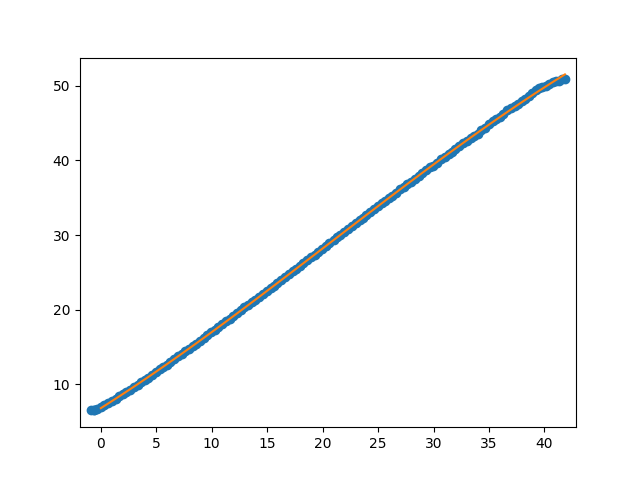
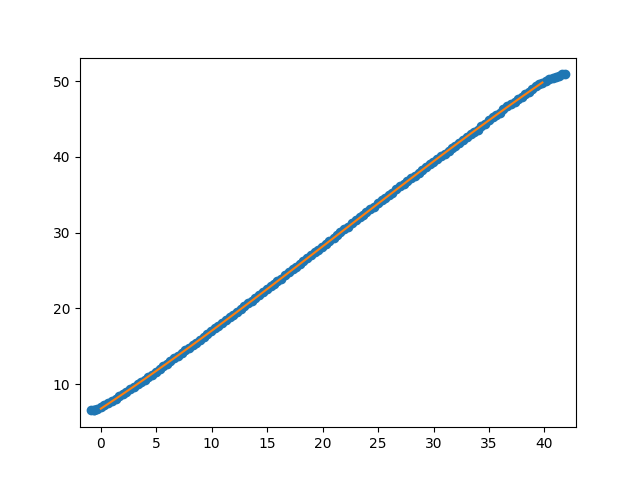
tweak

diff --git a/derailleurs/Shimano Deore M5120/default.htm b/derailleurs/Shimano Deore M5120/default.htm
@@ -21,23 +21,23 @@ Shimano Deore 11-Speed
   </tr>
   <tr>
     <th>Pull Ratio</th>
-    <td>1.10</td>
+    <td>1.11</td>
   </tr>
   <tr>
     <th>Curve Coefficients</th>
-    <td>6.43, 0.957, 0.00806, -0.000128</td>
+    <td>6.38, 0.958, 0.00763, -0.000114</td>
   </tr>
   <tr>
     <th>Physical Low Limit</th>
-    <td>6.43</td>
+    <td>6.38</td>
   </tr>
   <tr>
     <th>Physical High Limit</th>
-    <td>51.33</td>
+    <td>52.04</td>
   </tr>
   <tr>
     <th>Pull Ratio Averaged Across Pulling Runs</th>
-    <td>1.109 +/- 0.000</td>
+    <td>1.113 +/- 0.007</td>
   </tr>
   <tr>
     <th>Pull Ratio Averaged Across Relaxing Runs</th>
@@ -45,11 +45,11 @@ Shimano Deore 11-Speed
   </tr>
   <tr>
     <th>Pull Ratio Averaged Across All Runs</th>
-    <td>1.103 +/- 0.011</td>
+    <td>1.108 +/- 0.015</td>
   </tr>
   <tr>
     <th>Pull Ratio 95% Confidence Interval</th>
-    <td>1.093 to 1.114</td>
+    <td>1.093 to 1.123</td>
   </tr>
   
   
@@ -82,6 +82,16 @@ Shimano Deore 11-Speed
 <a href="pullratio/2025-01-11 13-26 PM Relaxing.csv">Raw Measurement Data</a>
 <figure>
 <img src="pullratio/2025-01-11 13-26 PM Relaxing.png"/>
+<figcaption>Data and best fit line, excluding points taken at limits</figcaption>
+</figure>
+</section>
+
+
+<section>
+<h2>2025-01-11 14-39 PM Pulling</h2>
+<a href="pullratio/2025-01-11 14-39 PM Pulling.csv">Raw Measurement Data</a>
+<figure>
+<img src="pullratio/2025-01-11 14-39 PM Pulling.png"/>
 <figcaption>Data and best fit line, excluding points taken at limits</figcaption>
 </figure>
 </section>
